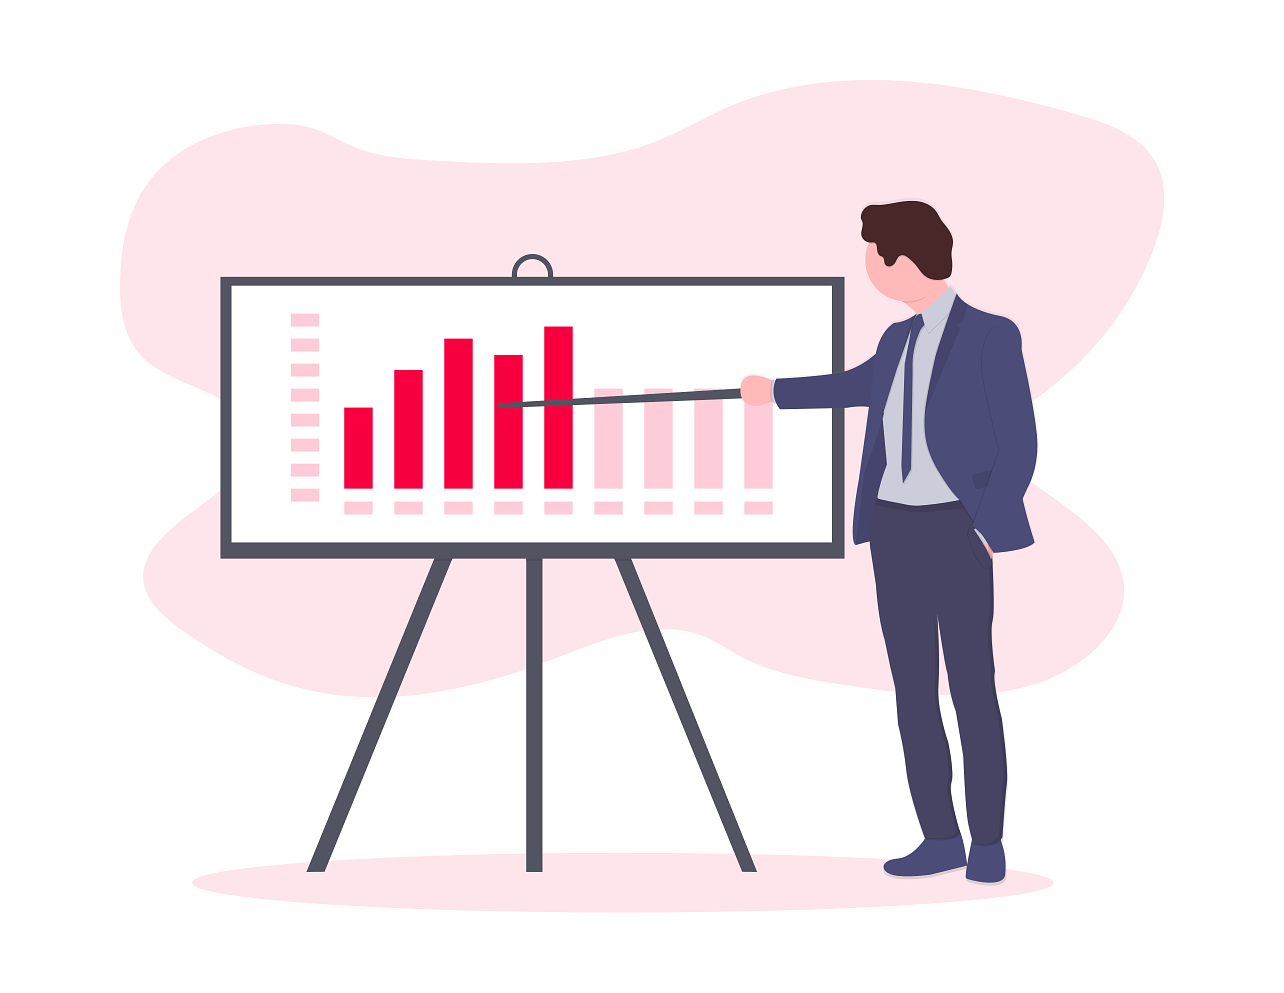
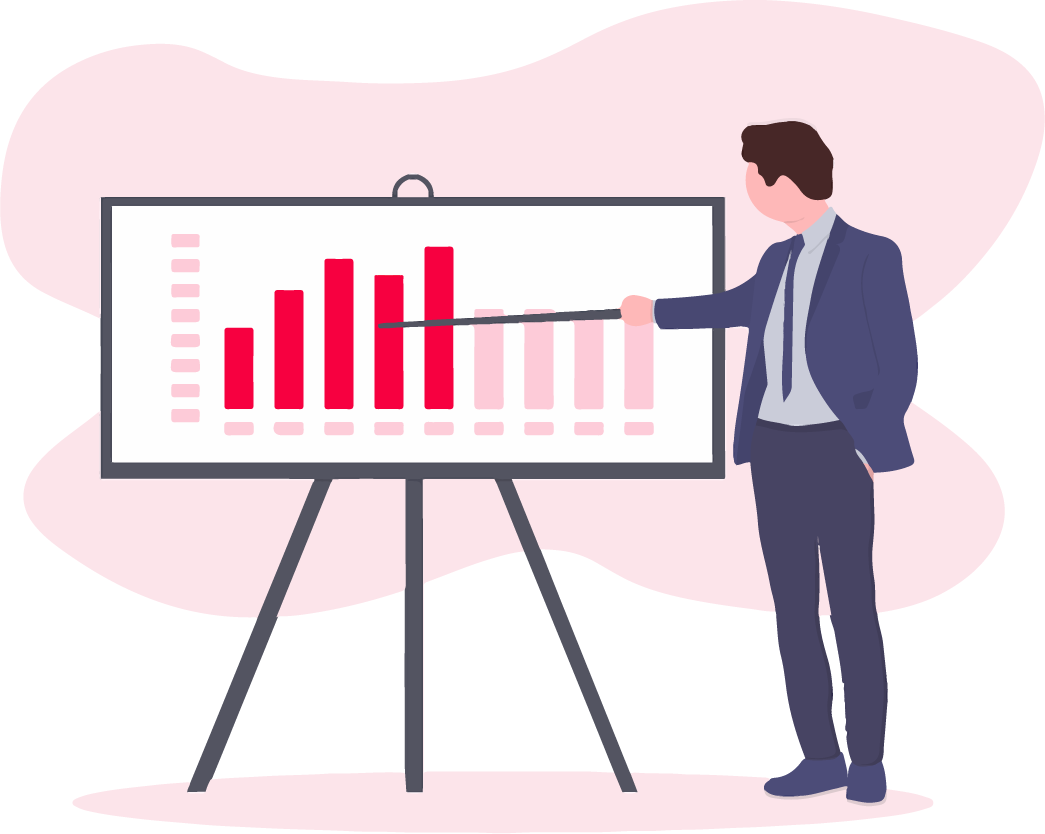
responsive: home > whyus

diff --git a/src/components/Home/WhyUs/index.js b/src/components/Home/WhyUs/index.js
@@ -1,65 +1,108 @@
-import React from 'react'
-import { Grid, Typography, Container } from '@material-ui/core'
+import React from "react"
+import { useMediaQuery, Grid, Typography, Container } from "@material-ui/core"
+import { makeStyles } from "@material-ui/core/styles"
 import { graphql, useStaticQuery } from "gatsby"
-import { TiArrowForward } from 'react-icons/ti'
-import Image from 'gatsby-image'
+import { TiArrowForward } from "react-icons/ti"
+import Image from "gatsby-image"
 
-import classes from "./index.module.scss"
-import Title from '../../Utils/Title'
+import Title from "../../Utils/Title"
 
 const getImage = graphql`
-{
-    whyUs:file(relativePath:{eq: "whyUs.png"}){
-      childImageSharp{
-        fluid{
-            ...GatsbyImageSharpFluid_tracedSVG
+  {
+    whyUs: file(relativePath: { eq: "whyUs.png" }) {
+      childImageSharp {
+        fluid {
+          ...GatsbyImageSharpFluid_tracedSVG
         }
       }
     }
-}`
+  }
+`
 
 const whyUs = [
-    'Powerful, Effective & User-friendly Windows based software',
-    'Qualified & Experienced team for Software Development',
-    'International Quality standard software development',
-    'Comprehensive warranty / maintenance',
-    'Multi-User Capability',
-    'Free Up-gradation',
-    'Fast and prompt customer service with guaranteed satisfaction',
-    'Ambitious in long-term customer relationship',
-    'Research and development for continuous growth & quality',
-    'Four level Security',
-    'Regular Backup & Restore facilities'
-];
+  "Powerful, Effective & User-friendly Windows based software",
+  "Qualified & Experienced team for Software Development",
+  "International Quality standard software development",
+  "Comprehensive warranty / maintenance",
+  "Multi-User Capability",
+  "Free Up-gradation",
+  "Fast and prompt customer service with guaranteed satisfaction",
+  "Ambitious in long-term customer relationship",
+  "Research and development for continuous growth & quality",
+  "Four level Security",
+  "Regular Backup & Restore facilities",
+]
+
+const useStyles = makeStyles(theme => ({
+  root: {
+    padding: "10rem 0",
+    [theme.breakpoints.down(1390)]: {
+      padding: "10rem 5rem",
+    },
+    [theme.breakpoints.down("sm")]: {
+      padding: "12rem 5rem 5rem",
+    },
+    // [theme.breakpoints.down(750)]: {
+    //   padding: "10rem 0rem",
+    // },
+  },
+  icon: {
+    marginRight: "1rem",
+    color: "#f80040",
+    transform: "translateY(1px)",
+  },
+  image: {
+    width:'85%',
+    display: 'flex',
+    justifyContent: 'center',
+    alignItems: 'center',
+    margin: 'auto',
+    [theme.breakpoints.down('md')]: {
+      width:'75%',
+    },
+    [theme.breakpoints.down('sm')]: {
+      width:'50rem',
+      marginBottom: '5rem'
+    },
+    [theme.breakpoints.down('sm')]: {
+      width:'35rem',
+      marginBottom: '5rem'
+    },
+
+  }
+}))
 
 const WhyUs = () => {
-    const data = useStaticQuery(getImage);
-    
-    return (
-        <div className={classes.root}>
-            <Container fixed>
-                <Title>Why Select Us?</Title>
+  const classes = useStyles()
+  const data = useStaticQuery(getImage)
+  
+  const sm = useMediaQuery(theme => theme.breakpoints.down('sm'));
+  const xs = useMediaQuery(theme => theme.breakpoints.down(450));
 
-                <Grid container justify="center" alignContent="center" alignItems="center">
-                    <Grid item xs={6}>
-                    {whyUs.map(why => (
-                            <Grid container direction="row" alignItems="center" key={why}>
-                                <Grid item>
-                                    <TiArrowForward className={classes.icon}/>
-                                </Grid>
-                                <Grid item>
-                                    <Typography variant="h6">{why}</Typography>
-                                </Grid>                       
-                            </Grid>
-                        ))}
-                    </Grid>
-                    <Grid item xs={6}>
-                        <Image fluid={data.whyUs.childImageSharp.fluid} alt="whyUs"/>
-                    </Grid>
-                </Grid>
-            </Container>
-        </div>
-    )
+  return (
+      <Container fluid className={classes.root}>
+        <Title>Why Select Us?</Title>
+        <Grid
+          container
+          justify="center"
+          alignItems="center"
+          direction={sm ? "column-reverse" : null}
+          style={{padding: '3rem 0'}}
+        >
+          <Grid item xs={sm ? 12 : 7}>
+            {whyUs.map(why => (
+              <div style={xs ? {fontSize:'1.8rem', marginBottom: 7} : {fontSize:'2rem', marginBottom: 10}}>
+                <span><TiArrowForward className={classes.icon} /></span>   
+                <Typography variant="p">{why}</Typography>
+              </div>
+            ))}
+          </Grid>
+          <Grid item xs={sm ? 12 : 5}>
+            <Image fluid={data.whyUs.childImageSharp.fluid} alt="whyUs" className={classes.image} />
+          </Grid>
+        </Grid>
+      </Container>
+  )
 }
 
 export default WhyUs

diff --git a/src/components/Home/Products/index.js b/src/components/Home/Products/index.js
@@ -12,21 +12,20 @@ const useStyles = makeStyles(theme => ({
         background: "#fff",
         boxShadow: "2px 2px 30px 0 rgba(0,0,0,.05)",
         [theme.breakpoints.down('md')]: {
-            padding: "10rem 8rem",
+            padding: "10rem 5rem",
         },
         [theme.breakpoints.down('sm')]: {
            padding: "10rem 5rem",
         },
         [theme.breakpoints.down(750)]: {
             padding: "10rem 0rem",
-         },
+        },
      }
 }))
 
 const Products = () => {
     const classes = useStyles();
 
-    const lg = useMediaQuery(theme => theme.breakpoints.down('lg'));
     const md = useMediaQuery(theme => theme.breakpoints.down('md'));
     const sm = useMediaQuery(theme => theme.breakpoints.down('sm'));
     const xs = useMediaQuery(theme => theme.breakpoints.down('xs'));
@@ -37,7 +36,7 @@ const Products = () => {
                 <Title>Our Service</Title>
                 <Grid container style={sm ? {padding: '0 4rem'} : null} spacing={md ? 2 : 5}>
                 {items.map(({id,icon,title,description}) => (
-                    <Grid item xs={sm ? 12 : md ? 6 : 4}>
+                    <Grid item xs={xs ? 12 : sm ? 6 : 4}>
                         <Product key={title} id={id} icon={icon} title={title} description={description} />
                     </Grid>
                 ))}

diff --git a/src/components/Home/Products/Product/index.js b/src/components/Home/Products/Product/index.js
@@ -4,13 +4,29 @@ import { makeStyles } from "@material-ui/core/styles"
 
 const useStyles = makeStyles(theme => ({
     product: {
-        padding: "6rem 4rem",
+        padding: "3rem",
+        height: '30rem',
         margin: '0 1.5rem',
+        display: 'flex',
+        flexDirection: 'column',
+        justifyContent: 'center',
         borderTop: "6px solid transparent",
         borderRadius: 6,
         transition: "all 0.3s linear",
         cursor: "pointer",
         boxShadow: " 0 5px 10px 0 rgba(64, 1, 4, 0.1), 0 -6px 0 0 rgba(248, 99, 107, 0.004)",
+        [theme.breakpoints.down(1450)]: {
+            height: '32rem',
+        },
+        [theme.breakpoints.down('sm')]: {
+           padding: "10rem 5rem",
+        },
+        [theme.breakpoints.down(750)]: {
+            padding: "10rem 2rem",
+        },
+        [theme.breakpoints.down('xs')]: {
+            padding: "10rem 5rem",
+        },
         "&:hover": {
             borderColor: "#f6626a",
             background: "#fff",

diff --git a/src/layout/Header/header.css b/src/layout/Header/header.css
@@ -77,17 +77,21 @@
   }
 }
 
-@media (max-width: 600px) {
+@media (max-height: 900px) {
   .inner-header {
     height:70vh;
   }
 }
-@media (max-width: 350px) {
+@media (max-height: 800px) {
   .inner-header {
-    height:75vh;
+    height:85vh;
   }
 }
-
+@media (max-height: 650px) {
+  .inner-header {
+    height:90vh;
+  }
+}
 
 .dotShape {
   position: absolute;

diff --git a/src/layout/Header/Menubar/index.js b/src/layout/Header/Menubar/index.js
@@ -67,7 +67,7 @@ const useStyles = makeStyles(theme => ({
     logo:{
         height: '6rem',
         width: '12rem',
-        margin: '4rem 0 3rem',
+        margin: '4rem 2rem 3rem',
     },
     lists:{
         display: 'flex',
